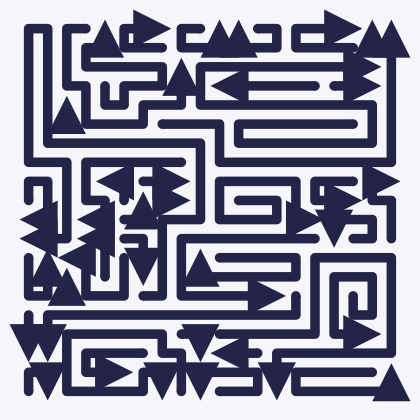
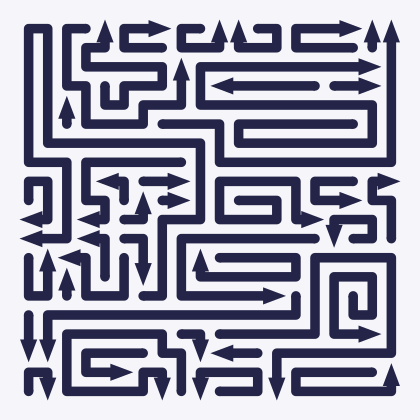
Narrow the head bounds to what stays readable
The view fields still let through values nobody can read: a head two squares
wide and two tall, in a cell that is one. `stroke` was already at 0.9 from the
previous pass; the head fields were not, and the reason they were not is worth
stating plainly.

They stopped at 2 and 3 because that is the biggest head the READMEs draw. That
inverted what a documented extreme is for: a picture of excess shows what excess
looks like — it is not a licence for it. The bound now comes from where a tip
stops reading as a tip: 0.9 of a square for the width, which is the element
demo's own slider bound, and 1.2 for the height, a little past one whole square.

Both floors stay at 0. `--arrow-width=0` means automatic, and `--arrow-height=0`
is the tip of no height the prose documents on purpose.

The picture moved instead of the bound: `head-big` is rebuilt at
`--arrow-width=0.9 --arrow-height=1.2`, the ceiling of both fields, and both
READMEs caption it accordingly.

Three places outside the table followed: the store's refusal message, the CLI
case that drew the documented big head — now covering both ends of the bounds
instead of one — and the manifest the picture is rebuilt from.

diff --git a/packages/engine/command.ts b/packages/engine/command.ts
@@ -615,14 +615,18 @@ export const VIEW_RANGE: Readonly<Record<ViewNumber, Readonly<{ min: number; max
   // element demo's, where a person watches the effect while dragging, and the
   // pictures in the READMEs sit exactly on them (`--line=0.2`, `--line=0.9`).
   stroke: { min: 0.2, max: 0.9, whole: false },
-  // 0 is the automatic width, from the line. The ceiling is the biggest head
-  // the READMEs draw (`--arrow-width=2`); past that the tip is wider than two
-  // squares and stops reading as a tip. The demo stops at 0.9, but taking that
-  // as the bound would refuse a picture this repository documents and rebuilds.
-  headWidth: { min: 0, max: 2, whole: false },
-  // 0 is a tip of no height at all, which README shows on purpose, and 2 is the
-  // tallest one it draws (`--arrow-height=2`). Same reasoning as the width.
-  headHeight: { min: 0, max: 2, whole: false },
+  // 0 is the automatic width, worked out from the line. The ceiling is where a
+  // tip stops reading as a tip, not where one can still be drawn: at 0.9 of a
+  // square the head is already as wide as the cell it sits in. That is the
+  // element demo's bound, where the effect is watched on a slider rather than
+  // argued about. These bounds used to be 2 and 3, justified by the biggest
+  // head the READMEs happened to draw — but a picture of an extreme shows what
+  // excess looks like; it is not a licence for it. The picture moved instead.
+  headWidth: { min: 0, max: 0.9, whole: false },
+  // 0 is a tip of no height at all, which the prose documents on purpose. 1.2
+  // is a little past one whole square: room for a deliberately tall head, short
+  // of a spike that reaches over the piece behind it.
+  headHeight: { min: 0, max: 1.2, whole: false },
   // 0 is no highlight; the list prints one line per piece, so it stays short.
   top: { min: 0, max: 1000, whole: true },
 }

diff --git a/packages/cli/carve.test.ts b/packages/cli/carve.test.ts
@@ -446,10 +446,14 @@ Deno.test('a picture number outside its range is refused, and no board is writte
     assertStringIncludes(r.stderr, flag)
     assertEquals(entries(dir), 0, 'nothing is written')
   }
-  // Every picture README shows still draws: the big head and the tip of no height.
+  // Every picture README shows still draws, and so does each end of the head
+  // bounds: the big head the page prints is exactly the ceiling of both fields
+  // (0.9 by 1.2), and the tip of no height is the floor the prose documents.
   const dir = tmp()
-  const ok = dryRun(['--dry-run', '--width=10', '--height=10', '--arrow-width=2', '--arrow-height=0'], dir)
-  assertEquals(ok.status, 0, ok.stderr)
+  const big = dryRun(['--dry-run', '--width=10', '--height=10', '--arrow-width=0.9', '--arrow-height=1.2'], dir)
+  assertEquals(big.status, 0, big.stderr)
+  const flat = dryRun(['--dry-run', '--width=10', '--height=10', '--arrow-width=0.9', '--arrow-height=0'], dir)
+  assertEquals(flat.status, 0, flat.stderr)
 })
 
 // --- refusals -----------------------------------------------------------------

diff --git a/packages/cli/store-server.test.ts b/packages/cli/store-server.test.ts
@@ -91,7 +91,7 @@ Deno.test('POST refuses fields the store would write or the page would show unch
       // a picture the CLI could have drawn.
       [{ ...b, view: { ...b.view, cell: 0 } }, 'view.cell must be a whole number in 1..200'],
       [{ ...b, view: { ...b.view, cell: 12.5 } }, 'view.cell must be a whole number in 1..200'],
-      [{ ...b, view: { ...b.view, headHeight: 5 } }, 'view.headHeight must be a number in 0..2'],
+      [{ ...b, view: { ...b.view, headHeight: 5 } }, 'view.headHeight must be a number in 0..1.2'],
       [{ ...b, view: { ...b.view, colored: 'yes' } }, 'view.colored'],
       [{ ...b, command: 'x'.repeat(5000) }, 'command'],
       [{ ...b, metrics: { pieces: '<b>' } }, 'metrics.pieces'],

diff --git a/README.md b/README.md
@@ -575,7 +575,7 @@ squares. They behave differently. `--arrow-width` defaults to `auto`, meaning
 it defaults to `1`, one whole square. Ask for `--arrow-height=0` and you get a
 tip of no height at all.
 
-| `--arrow-width=0.6 --arrow-height=0.6` | `--arrow-width=2 --arrow-height=2` |
+| `--arrow-width=0.6 --arrow-height=0.6` | `--arrow-width=0.9 --arrow-height=1.2` |
 |---|---|
 | <img src="docs/images/head-small.png" width="260"> | <img src="docs/images/head-big.png" width="260"> |
 

diff --git a/README.pl.md b/README.pl.md
@@ -575,7 +575,7 @@ znaczy „wylicz z grubości linii”; podana liczba to szerokość w kwadratach
 domyślnie wynosi `1`, czyli cały kwadrat. Po `--arrow-height=0` grot nie ma
 żadnej wysokości.
 
-| `--arrow-width=0.6 --arrow-height=0.6` | `--arrow-width=2 --arrow-height=2` |
+| `--arrow-width=0.6 --arrow-height=0.6` | `--arrow-width=0.9 --arrow-height=1.2` |
 |---|---|
 | <img src="docs/images/head-small.png" width="260"> | <img src="docs/images/head-big.png" width="260"> |
 
